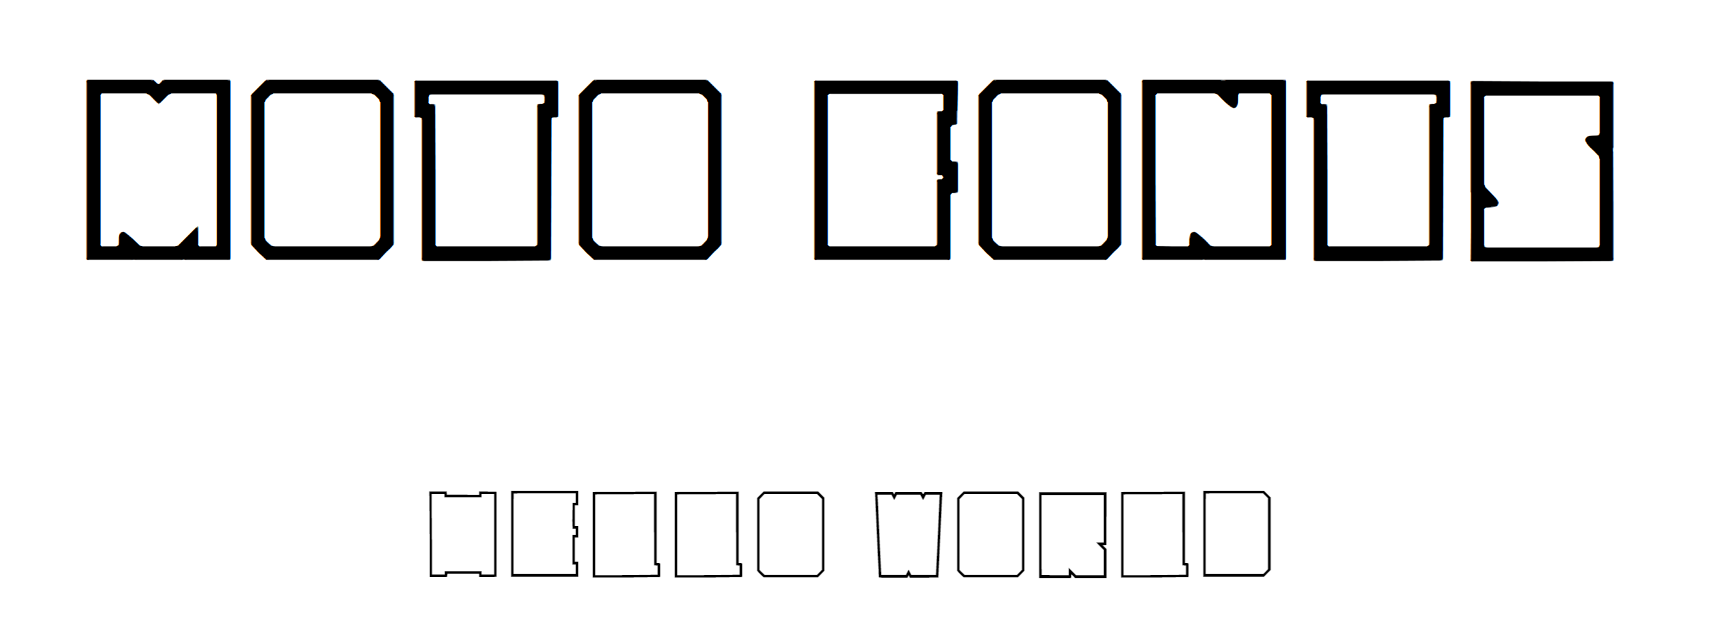
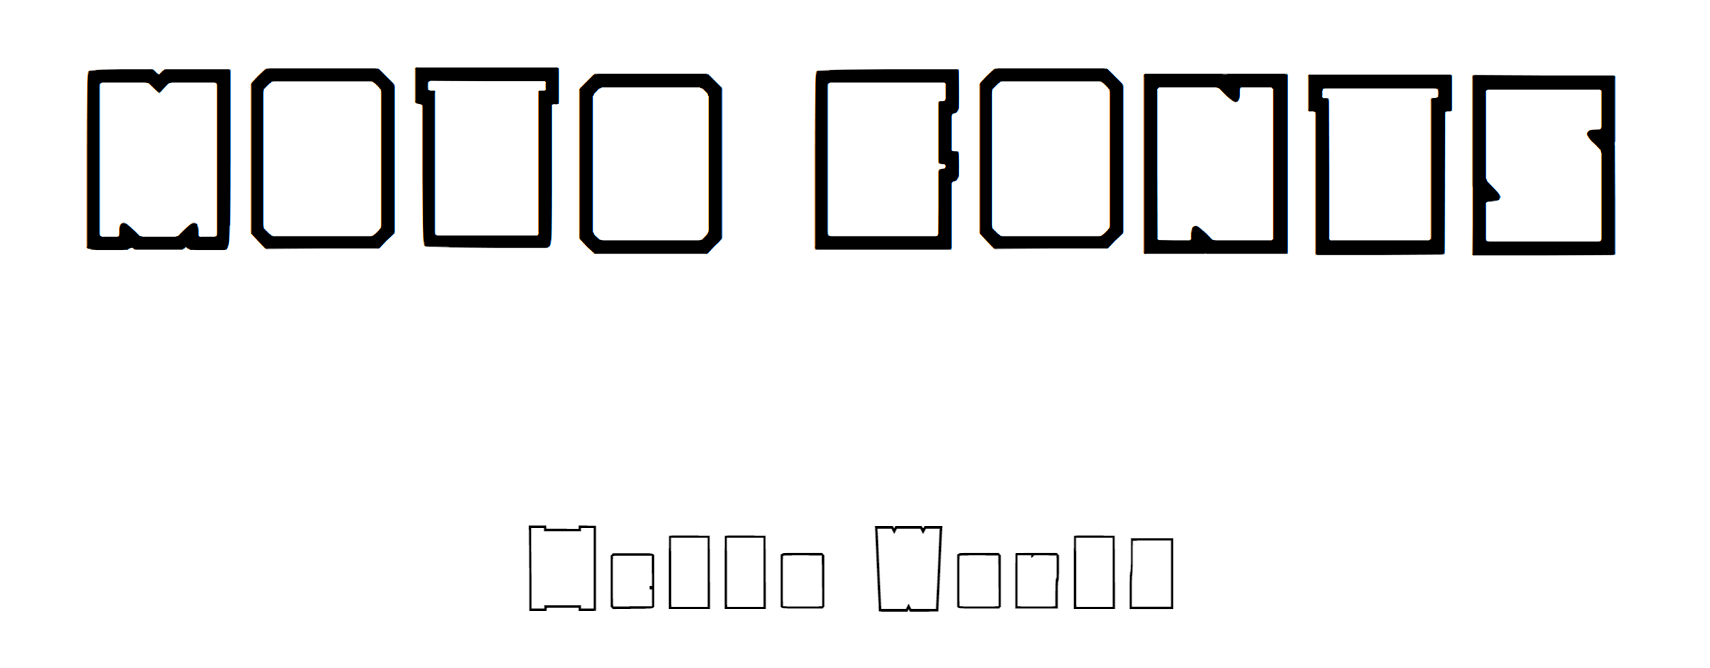
changed html and image

diff --git a/docs/index.html b/docs/index.html
@@ -8,6 +8,6 @@
 </head>
 <body>
   <h1>MOTO FONTS</h1>
-  <p>HELLO WORLD</p>
+  <p>Hello World</p>
 </body>
 </html>
